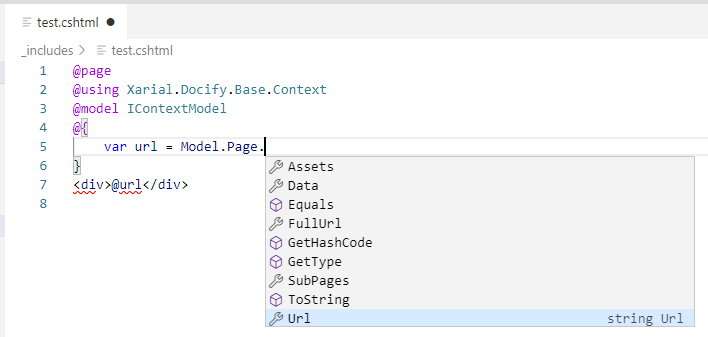
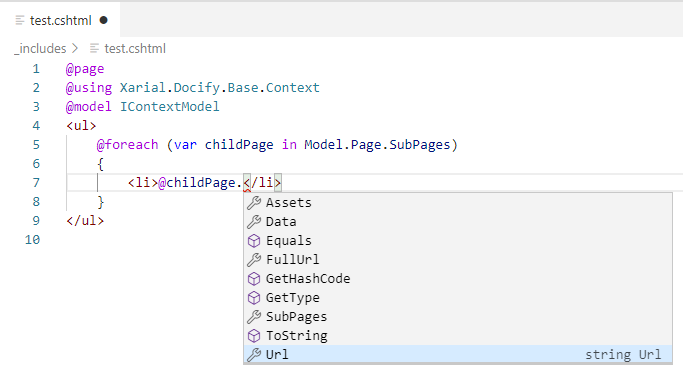
Updated dynamic example to match the description

diff --git a/docs/_content/content/dynamic/index.md b/docs/_content/content/dynamic/index.md
@@ -42,10 +42,12 @@ In order to enable IntelliSense, install [Xarial.Docify.Base.Context](https://ww
 @page
 @using Xarial.Docify.Base.Context
 @model IContextModel
-@{
-    var url = Model.Page.Url;
-}
-<div>@url</div>
+<ul>
+    @foreach (var childPage in Model.Page.SubPages)
+    {    
+        <li>@childPage.Url</li>
+    }
+</ul>
 ~~~
 
 The above code will generate an unordered list of urls of all children pages of the current page.
